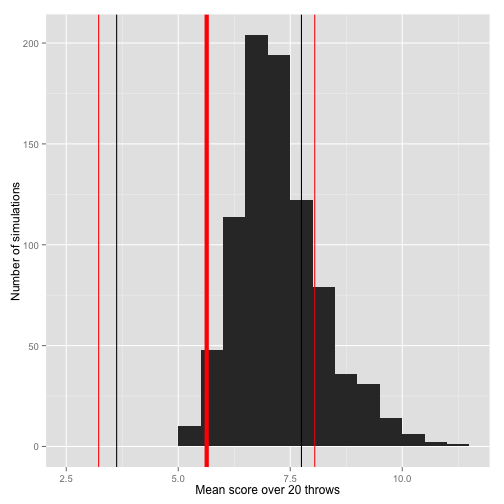
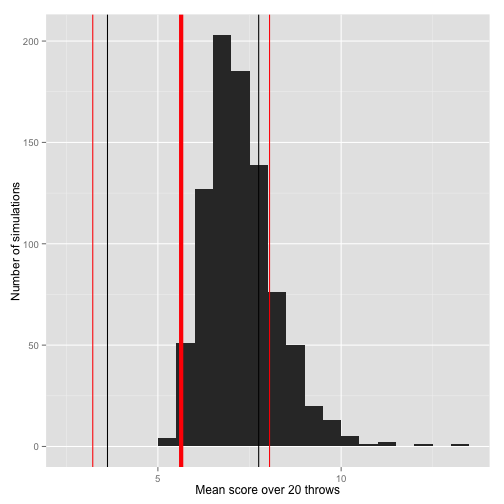
Adding markdown ffiles

diff --git a/Week4_StatisticalInference/MeetingSlidesD2.md b/Week4_StatisticalInference/MeetingSlidesD2.md
@@ -41,13 +41,13 @@ head(cbind(throw.x, throw.y))
 ```
 
 ```
-##         throw.x    throw.y
-## [1,] -0.3417724  4.3112002
-## [2,]  5.3568449  0.3986758
-## [3,] -0.1968829 -4.0292692
-## [4,] -3.7015105  1.3955238
-## [5,]  0.9807719 -2.0511807
-## [6,] -3.3563166 -3.6548960
+##        throw.x   throw.y
+## [1,] -2.781695  1.497812
+## [2,]  2.212276  5.030991
+## [3,]  1.304047  4.740485
+## [4,] -2.082358  3.662941
+## [5,] -4.433561 -2.868801
+## [6,]  1.317453  3.512734
 ```
 
 ## Graph of results under the null
@@ -89,7 +89,7 @@ head(throw.dist)
 ```
 
 ```
-## [1] 4.324726 5.371660 4.034077 3.955840 2.273600 4.962169
+## [1] 3.159314 5.495911 4.916578 4.213473 5.280766 3.751664
 ```
 
 ```r
@@ -101,7 +101,7 @@ head(throw.score)
 ```
 
 ```
-## [1] 5  5  5  10 10 5 
+## [1] 10 5  5  5  5  10
 ## Levels: 25 10 5 Null
 ```
 
@@ -117,7 +117,7 @@ table(throw.score)
 ```
 ## throw.score
 ##   25   10    5 Null 
-##    0    4    6    0
+##    0    3    7    0
 ```
 
 ```r
@@ -127,7 +127,7 @@ mean(ex)
 ```
 
 ```
-## [1] 7
+## [1] 6.5
 ```
 
 ## What to expect under the null
@@ -249,9 +249,9 @@ dist.throws[1:3,1:5]
 
 ```
 ##          [,1]     [,2]     [,3]     [,4]     [,5]
-## [1,] 5.235099 4.205553 5.258347 4.730786 5.561223
-## [2,] 7.651559 6.259084 4.711931 1.372088 5.159890
-## [3,] 1.477280 4.269533 3.117517 3.075932 2.679381
+## [1,] 2.319258 7.214366 4.048456 3.215225 2.608573
+## [2,] 8.400306 1.485109 5.147192 6.371826 3.256453
+## [3,] 3.628869 8.531366 4.991656 5.527278 6.430215
 ```
 
 ```r
@@ -259,10 +259,10 @@ score.throws[1:3,1:5]
 ```
 
 ```
-##      [,1]   [,2] [,3] [,4] [,5]
-## [1,] "5"    "5"  "5"  "5"  "5" 
-## [2,] "Null" "5"  "5"  "10" "5" 
-## [3,] "10"   "5"  "10" "10" "10"
+##      [,1]   [,2]   [,3] [,4] [,5]
+## [1,] "10"   "Null" "5"  "10" "10"
+## [2,] "Null" "10"   "5"  "5"  "10"
+## [3,] "10"   "Null" "5"  "5"  "5"
 ```
 
 ## Simulating $E[\bar{X}]$ and $Var(\bar{X})$
@@ -275,74 +275,6 @@ mean.scores <- apply(score.throws, MARGIN = 1,
                                      as.character(x)))
                              return(out)
                      })
-```
-
-```
-## Warning in mean(as.numeric(as.character(x))): NAs introduced by coercion
-```
-
-```
-## Warning in mean(as.numeric(as.character(x))): NAs introduced by coercion
-```
-
-```
-## Warning in mean(as.numeric(as.character(x))): NAs introduced by coercion
-```
-
-```
-## Warning in mean(as.numeric(as.character(x))): NAs introduced by coercion
-```
-
-```
-## Warning in mean(as.numeric(as.character(x))): NAs introduced by coercion
-```
-
-```
-## Warning in mean(as.numeric(as.character(x))): NAs introduced by coercion
-```
-
-```
-## Warning in mean(as.numeric(as.character(x))): NAs introduced by coercion
-```
-
-```
-## Warning in mean(as.numeric(as.character(x))): NAs introduced by coercion
-```
-
-```
-## Warning in mean(as.numeric(as.character(x))): NAs introduced by coercion
-```
-
-```
-## Warning in mean(as.numeric(as.character(x))): NAs introduced by coercion
-```
-
-```
-## Warning in mean(as.numeric(as.character(x))): NAs introduced by coercion
-```
-
-```
-## Warning in mean(as.numeric(as.character(x))): NAs introduced by coercion
-```
-
-```
-## Warning in mean(as.numeric(as.character(x))): NAs introduced by coercion
-```
-
-```
-## Warning in mean(as.numeric(as.character(x))): NAs introduced by coercion
-```
-
-```
-## Warning in mean(as.numeric(as.character(x))): NAs introduced by coercion
-```
-
-```
-## Warning in mean(as.numeric(as.character(x))): NAs introduced by coercion
-```
-
-```
-## Warning in mean(as.numeric(as.character(x))): NAs introduced by coercion
 ```
 
 ```
